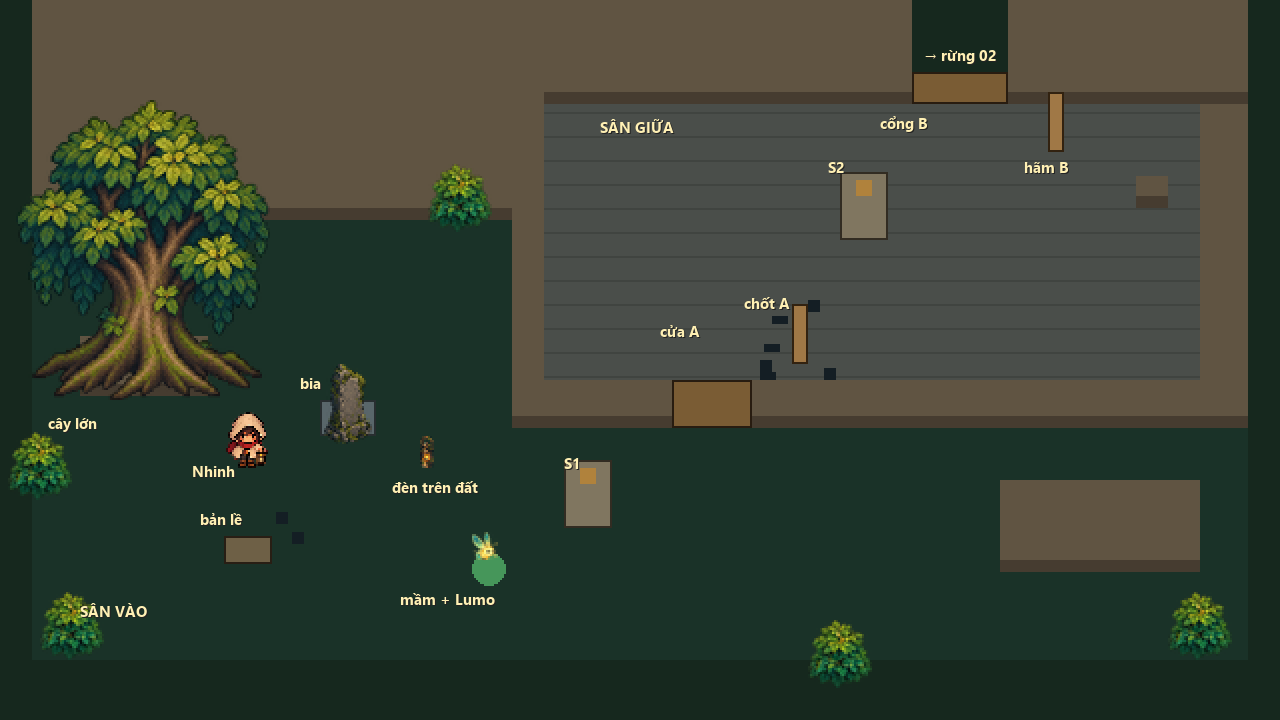
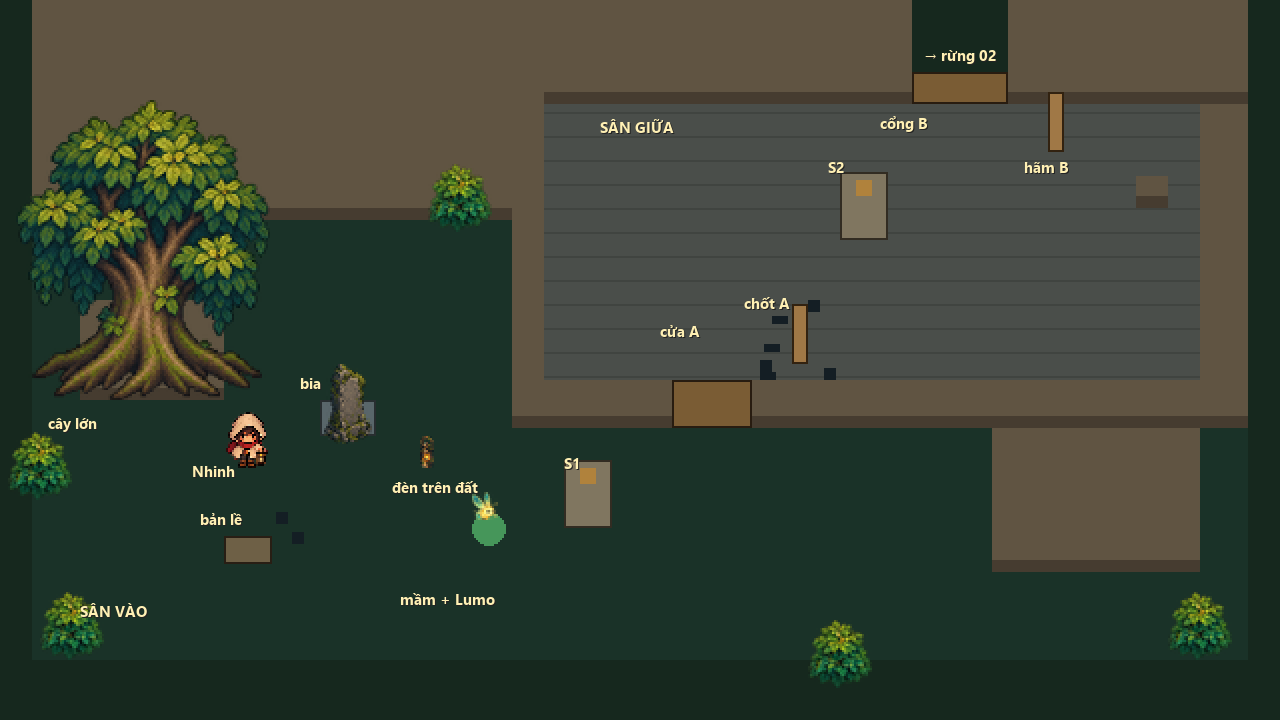
fix(v4): level 01 Pulse reveals the S1–A line, the first switch-on finds the sprout, DONE
- The carved S1–A line shows dark, then pale once Pulse found it, and gold
  while S1 feeds door A; S2–B runs gold while S2 feeds gate B; the tool marks
  on latch A show once Pulse found them. Found and live art sits above the
  darkness (scenario 01 §3).
- The sprout moves to {236,256}: the waist-centred circle had left it out of
  reach of the first switch-on where the lamp is taken (scenario 01 §1); a
  test now holds that.
- The implementation doc is marked DONE with a runtime section (§13); the
  layout note and the blockout previews are refreshed.

diff --git a/src/v4/levels/forest-edge/ForestEdgeLevel.ts b/src/v4/levels/forest-edge/ForestEdgeLevel.ts
@@ -22,6 +22,8 @@ import {
   LAMP_REST_ID,
   LAMP_REST_REACH,
   LATCH_A_ID,
+  LATCH_TOOL_ID,
+  LINE_S1_A_ID,
   S1_ID,
   S2_ID,
   SPROUT_ID,
@@ -321,6 +323,14 @@ export class ForestEdgeLevel implements V4LevelRuntime<ForestEdgeState> {
     add('s2', ['socket-empty', 'socket-lamp-off', 'socket-lamp-on'], upright('s2'));
     add('eyeA', ['eye-dormant', 'eye-live'], 2);
     add('eyeB', ['eye-dormant', 'eye-live'], 2);
+    // The carved lines and the tool marks: a hidden line stays under the darkness; a line Pulse found, a live line and
+    // the found tool marks are drawn above it, like the eyes.
+    add('s1ToA', ['s1ToA-hidden', 's1ToA-revealed', 's1ToA-live'], 1);
+    add('s2ToB', ['s2ToB-hidden', 's2ToB-live'], 1);
+    add('latchTool', ['latch-tool-marks'], EYE_LIVE_DEPTH);
+    for (const [slot, texture] of [['s1ToA', 's1ToA-revealed'], ['s1ToA', 's1ToA-live'], ['s2ToB', 's2ToB-live']] as const) {
+      this.artImages[slot][texture].setDepth(EYE_LIVE_DEPTH);
+    }
     for (const slot of ['eyeA', 'eyeB'] as const) {
       this.artImages[slot]['eye-live'].setDepth(EYE_LIVE_DEPTH);
       const { position } = ART_SLOTS[slot];
@@ -368,6 +378,11 @@ export class ForestEdgeLevel implements V4LevelRuntime<ForestEdgeState> {
     this.showArt('s2', socketTexture(lantern, S2_ID));
     this.showEye('eyeA', lanternFeeds(lantern, S1_ID));
     this.showEye('eyeB', lanternFeeds(lantern, S2_ID));
+    // Pulse at the stele reveals the S1–A line and the tool marks on latch A; a fed line runs live either way.
+    const s1Line = this.host.hasJournal(LINE_S1_A_ID) ? 's1ToA-revealed' : 's1ToA-hidden';
+    this.showArt('s1ToA', lanternFeeds(lantern, S1_ID) ? 's1ToA-live' : s1Line);
+    this.showArt('s2ToB', lanternFeeds(lantern, S2_ID) ? 's2ToB-live' : 's2ToB-hidden');
+    this.showArt('latchTool', this.host.hasJournal(LATCH_TOOL_ID) ? 'latch-tool-marks' : null);
     this.showArt('hinge', HINGE_TEXTURES[this.hingePhase]);
     const onGround = lantern.location.at === 'pedestal' && lantern.location.pedestalId === LAMP_REST_ID;
     this.showArt('lantern', onGround ? 'lantern-off' : null);

diff --git a/src/v4/levels/forest-edge/forestEdgeArt.ts b/src/v4/levels/forest-edge/forestEdgeArt.ts
@@ -54,6 +54,8 @@ const SIZE: Readonly<Record<string, Pick<ArtSlot, 'anchor' | 'gameSize'>>> = {
   'lantern-off': { anchor: [6, 18], gameSize: [12, 18] },
   'water-column': { anchor: [8, 56], gameSize: [16, 56] },
   'station-yard': { anchor: [0, 0], gameSize: [640, 360] },
+  's1ToA-hidden': { anchor: [0, 0], gameSize: [640, 360] },
+  'latch-tool-marks': { anchor: [8, 6], gameSize: [16, 12] },
 };
 
 /** The slots of the level, by place. Each slot takes its texture from the level's state. */
@@ -70,6 +72,10 @@ export const ART_SLOTS = {
   s2: { position: { x: 432, y: 120 }, ...SIZE['socket-empty'] },
   eyeA: { position: { x: 328, y: 200 }, ...SIZE['eye-dormant'] },
   eyeB: { position: { x: 448, y: 42 }, ...SIZE['eye-dormant'] },
-  sprout: { position: { x: 244, y: 292 }, ...SIZE.sprout },
+  sprout: { position: { x: 244, y: 272 }, ...SIZE.sprout },
   lantern: { position: { x: 214, y: 236 }, ...SIZE['lantern-off'] },
+  // The carved S1–A and S2–B lines: full-screen overlays, registered to the yard.
+  s1ToA: { position: { x: 0, y: 0 }, ...SIZE['s1ToA-hidden'] },
+  s2ToB: { position: { x: 0, y: 0 }, ...SIZE['s1ToA-hidden'] },
+  latchTool: { position: { x: 386, y: 168 }, ...SIZE['latch-tool-marks'] },
 } as const satisfies Record<string, ArtSlot>;

diff --git a/src/v4/levels/forest-edge/forestEdgeLayout.test.ts b/src/v4/levels/forest-edge/forestEdgeLayout.test.ts
@@ -225,6 +225,17 @@ describe('forest edge light marks and pulse', () => {
     expect(hasAimArea({ hit: [sprout.rect], avoid: [] }, aimInput(start, CLOSED))).toBe(true);
   });
 
+  it('lights the sprout on the first switch-on just south of the lamp, where the lamp is taken', () => {
+    // Scenario 01 §1: the first switch-on with the lamp in hand covers the sprout Lumo hides.
+    const foot = { x: 214, y: 242 };
+    expect(pointInRect(foot, LAMP_REST_REACH)).toBe(true);
+    const footRect = { x: foot.x - 7, y: foot.y - 3, width: 14, height: 6 };
+    expect(isFootWalkable(footRect, { world: FOREST_EDGE.world, solids: forestSolids(CLOSED) })).toBe(true);
+    const sprout = FOREST_EDGE_LIGHT_MARKS.find(m => m.id === SPROUT_ID)!;
+    const lantern = lanternFootprints(initialLantern(), foot, () => null);
+    expect(isMarkReadable(sprout, lantern, forestBlockers(CLOSED))).toBe(true);
+  });
+
   it('lets every dark mark be read with the lantern in hand from a reachable spot out of its circle, and seen from there', () => {
     const blockers = forestBlockers(CLOSED);
     for (const mark of FOREST_EDGE_LIGHT_MARKS) {

diff --git a/src/v4/levels/forest-edge/forestEdgeLayout.ts b/src/v4/levels/forest-edge/forestEdgeLayout.ts
@@ -112,7 +112,7 @@ export const FOREST_EDGE: ForestEdgeLayout = Object.freeze({
   latchA: { x: 392, y: 166, width: 16, height: 16 },
   braceB: { x: 520, y: 60, width: 16, height: 16 },
   exitZone: { x: 456, y: 0, width: 48, height: 20 },
-  sprout: { x: 236, y: 276, width: 16, height: 16 },
+  sprout: { x: 236, y: 256, width: 16, height: 16 },
   lampRest: { x: 206, y: 226, width: 16, height: 10 },
   foliage: Object.freeze([
     { x: 16, y: 110, width: 128, height: 40 },    // crownWest: the old tree's low crown, west of the trunk
